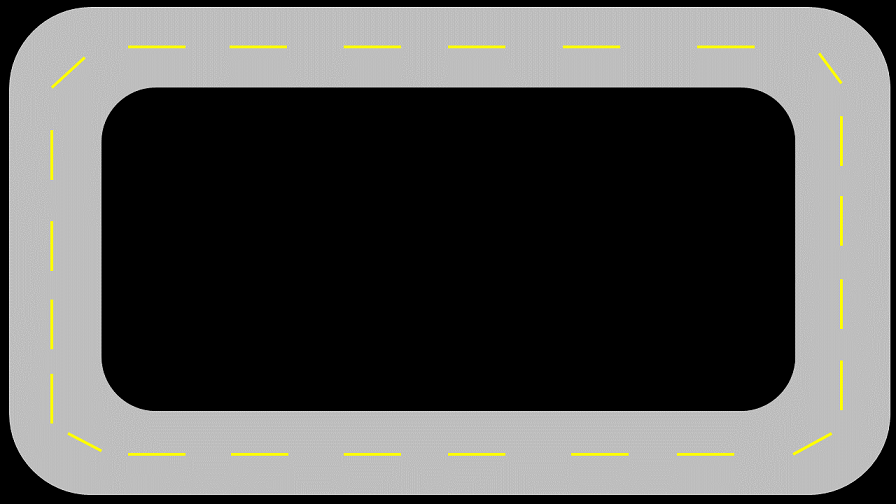
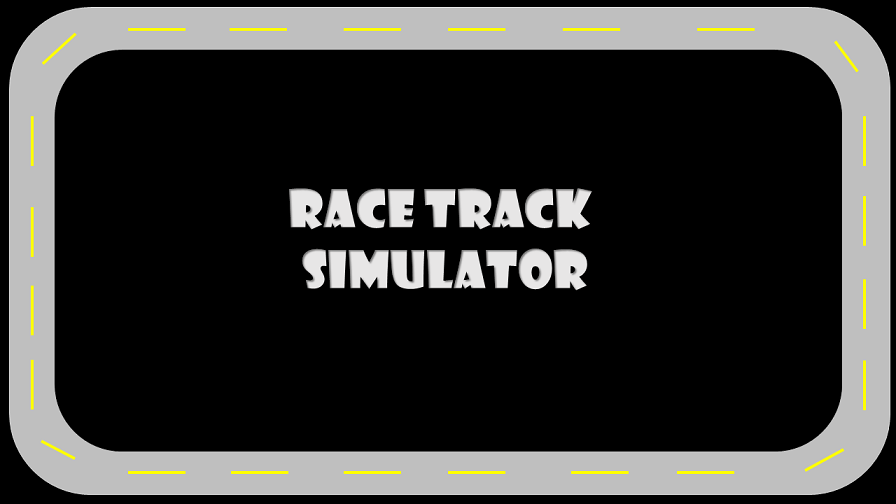
nova pista, controlador pd pronto

diff --git a/game_pid.py b/game_pid.py
@@ -35,6 +35,49 @@ def crash():
     time.sleep(2)
     pygame.quit()
 
+
+class PID:
+    """PID controller."""
+
+    def __init__(self, Kp, Ki, Kd, origin_time=None):
+        if origin_time is None:
+            origin_time = time.time()
+
+        # Gains for each term
+        self.Kp = Kp
+        self.Ki = Ki
+        self.Kd = Kd
+
+        # Corrections (outputs)
+        self.Cp = 0.0
+        self.Ci = 0.0
+        self.Cd = 0.0
+
+        self.previous_time = origin_time
+        self.previous_error = 0.0
+
+    def Update(self, error, current_time=None):
+        if current_time is None:
+            current_time = time.time()
+        dt = current_time - self.previous_time
+        if dt <= 0.0:
+            return 0
+        de = error - self.previous_error
+
+        self.Cp = error
+        self.Ci += error * dt
+        self.Cd = de / dt
+
+        self.previous_time = current_time
+        self.previous_error = error
+
+        return (
+            (self.Kp * self.Cp)    # proportional term
+            + (self.Ki * self.Ci)  # integral term
+            + (self.Kd * self.Cd)  # derivative term
+        )
+
+
 class Car:
     def __init__(self, x, y, angle=0.0, length=1, max_steering=30, max_acceleration=1.0):
         self.position = Vector2(x, y)
@@ -66,7 +109,7 @@ class Car:
 class Game:
     def __init__(self):
         pygame.init()
-        pygame.display.set_caption("Car tutorial")
+        pygame.display.set_caption("Simulador Fuzzy")
         width = 1280
         height = 720
         self.screen = pygame.display.set_mode((width, height))
@@ -75,94 +118,139 @@ class Game:
         self.exit = False
 
 
+
     def run(self):
         car_image = pygame.image.load('car.png')
         car_image = pygame.transform.scale(car_image, (45, 20))
-        track_image = pygame.image.load('track_image.png')
+        track_image = pygame.image.load('race_track.png')
         track_image = pygame.transform.scale(track_image, (1280, 720))
         track_mask = pygame.mask.from_threshold(track_image,pygame.Color('black'), (1, 1, 1, 255))
-        car = Car(20, 2.3)
+        car = Car(30, 1.5)
         ppu = 32
         #data = np.array([])
         dataSensors = np.zeros(3)
         dataSteering = np.zeros(1)
         dataVel = np.zeros(1)
         steer=0
+        sensor_esquerdo = 0
+        sensor_direito = 0
+        sensor_frontal = 0
+        distancia = 0
+        controlador_lateral = PID(1, 0, 0.1)
+        target_distance = 0
+
+
 
         while not self.exit:
             dt = self.clock.get_time() / 1000
 
+
             # Event queue
             for event in pygame.event.get():
                 if event.type == pygame.QUIT:
-                    # df = pd.DataFrame(dataSensors)
-                    # df.to_csv(r'dataSensores.csv', header = None, index=False)
-                    # df2 = pd.DataFrame(dataSteering)
-                    # df2.to_csv(r'dataSteering.csv', header = None, index=False)
-                    # df3 = pd.DataFrame(dataVel)
-                    # df3.to_csv(r'dataVelocidade.csv', header = None, index=False)
                     self.exit = True
 
-            # User input
             pressed = pygame.key.get_pressed()
-
-            #b = np.zeros(4)
             if pressed[pygame.K_UP]:
-                #b[0] = 1
-                if car.velocity.x < 0:
-                    car.acceleration = car.brake_deceleration
-                else:
-                    car.acceleration += 1 * dt
-            elif pressed[pygame.K_DOWN]:
-                #b[1] = 1
-                if car.velocity.x > 0:
-                    car.acceleration = -car.brake_deceleration
-                else:
-                    car.acceleration -= 1 * dt
-            elif pressed[pygame.K_SPACE]:
-                if abs(car.velocity.x) > dt * car.brake_deceleration:
-                    car.acceleration = -copysign(car.brake_deceleration, car.velocity.x)
-                else:
-                    car.acceleration = -car.velocity.x / dt
-            else:
-                if abs(car.velocity.x) > dt * car.free_deceleration:
-                    car.acceleration = -copysign(car.free_deceleration, car.velocity.x)
-                else:
-                    if dt != 0:
-                        car.acceleration = -car.velocity.x / dt
-            car.acceleration = max(-car.max_acceleration, min(car.acceleration, car.max_acceleration))
-            if pressed[pygame.K_RIGHT]:
-                #b[2] = 1
-                car.steering -= 30 * dt
-                steer = car.steering
-            elif pressed[pygame.K_LEFT]:
-                #b[3] = 1
-                car.steering += 30 * dt
-                steer = car.steering
-            else:
-                car.steering = 0
+                pygame_position = np.round(car.position * ppu)
+                #sensores
+                for i in range(1500):
+                    x =  np.int(pygame_position[0] + math.cos(math.radians(car.angle)) * i)
+                    y =  np.int(pygame_position[1] - math.sin(math.radians(car.angle)) * i)
+                    if (track_mask.get_at([x,y])==1):
+                        pygame.draw.lines(self.screen,(255,0,0),True,[pygame_position, [x,y]])
+                        sensor_frontal = math.hypot(x - pygame_position[0], y - pygame_position[1])
+                        break
 
-                if steer > 0:
-                    steer -= 30 * dt
-                elif steer < 0:
-                    steer += 30 * dt
-                else:
-                    steer = 0
+                for i in range(1500):
+                     x = np.int(pygame_position[0] + math.cos(math.radians(car.angle+90)) * i)
+                     y = np.int(pygame_position[1] - math.sin(math.radians(car.angle+90)) * i)
+                     if (track_mask.get_at([x,y])==1):
+                         pygame.draw.lines(self.screen,(255,0,0),True,[pygame_position, [x,y]])
+                         sensor_esquerdo = math.hypot(x - pygame_position[0], y - pygame_position[1])
+                         break
 
+                for i in range(1500):
+                    x = np.int(pygame_position[0] + math.cos(math.radians(car.angle - 90)) * i)
+                    y = np.int(pygame_position[1] - math.sin(math.radians(car.angle - 90)) * i)
+                    if (track_mask.get_at([x,y])==1):
+                        pygame.draw.lines(self.screen,(255,0,0),True,[pygame_position, [x,y]])
+                        sensor_direito = math.hypot(x - pygame_position[0], y - pygame_position[1])
+                        break
 
-            car.steering = max(-car.max_steering, min(car.steering, car.max_steering))
-            steer = max(-car.max_steering, min(steer, car.max_steering))
+                distancia = sensor_direito - sensor_esquerdo
+                error = target_distance - distancia
 
-            # b = np.array(b)
-            # dataKeys = np.vstack((dataKeys, b))
+                correction = controlador_lateral.Update(error)
+                print(correction)
+                print(distancia)
+                car.steering = correction
 
-            print(car.steering)
+                car.velocity.x = 3
+                car.acceleration = -car.velocity.x / dt
+                car.acceleration = max(-car.max_acceleration, min(car.acceleration, car.max_acceleration))
+                car.steering = max(-car.max_steering, min(car.steering, car.max_steering))
+                #
+                # # User input
+                # pressed = pygame.key.get_pressed()
+                #
+                # #b = np.zeros(4)
+                # if pressed[pygame.K_UP]:
+                #     #b[0] = 1
+                #     if car.velocity.x < 0:
+                #         car.acceleration = car.brake_deceleration
+                #     else:
+                #         car.acceleration += 1 * dt
+                # elif pressed[pygame.K_DOWN]:
+                #     #b[1] = 1
+                #     if car.velocity.x > 0:
+                #         car.acceleration = -car.brake_deceleration
+                #     else:
+                #         car.acceleration -= 1 * dt
+                # elif pressed[pygame.K_SPACE]:
+                #     if abs(car.velocity.x) > dt * car.brake_deceleration:
+                #         car.acceleration = -copysign(car.brake_deceleration, car.velocity.x)
+                #     else:
+                #         car.acceleration = -car.velocity.x / dt
+                # else:
+                #     if abs(car.velocity.x) > dt * car.free_deceleration:
+                #         car.acceleration = -copysign(car.free_deceleration, car.velocity.x)
+                #     else:
+                #         if dt != 0:
+                #             car.acceleration = -car.velocity.x / dt
+                # car.acceleration = max(-car.max_acceleration, min(car.acceleration, car.max_acceleration))
+                # if pressed[pygame.K_RIGHT]:
+                #     #b[2] = 1
+                #     car.steering -= 30 * dt
+                #     steer = car.steering
+                # elif pressed[pygame.K_LEFT]:
+                #     #b[3] = 1
+                #     car.steering += 30 * dt
+                #     steer = car.steering
+                # else:
+                #     car.steering = 0
+                #
+                #     if steer > 0:
+                #         steer -= 30 * dt
+                #     elif steer < 0:
+                #         steer += 30 * dt
+                #     else:
+                #         steer = 0
+                #
+                #
+                # car.steering = max(-car.max_steering, min(car.steering, car.max_steering))
+                # steer = max(-car.max_steering, min(steer, car.max_steering))
+                #
+                # # b = np.array(b)
+                # # dataKeys = np.vstack((dataKeys, b))
+                #
+                # print(car.velocity)
+                #
+                # b = np.array(car.steering)
+                # dataSteering = np.vstack((dataSteering, b))
 
-            b = np.array(car.steering)
-            dataSteering = np.vstack((dataSteering, b))
-
-            # Logic
-            car.update(dt)
+                # Logic
+                car.update(dt)
 
             # Drawing
             self.screen.blit(track_image, [0, 0])
@@ -185,35 +273,6 @@ class Game:
                 # df3.to_csv(r'dataVelocidade.csv', header=None, index=False)
                 crash()
 
-            a = []
-            #sensores
-            for i in range(1500):
-                x =  np.int(pygame_position[0] + math.cos(math.radians(car.angle)) * i)
-                y =  np.int(pygame_position[1] - math.sin(math.radians(car.angle)) * i)
-                if (track_mask.get_at([x,y])==1):
-                    pygame.draw.lines(self.screen,(255,0,0),True,[pygame_position, [x,y]])
-                    #print('Sensor Reto: ', math.hypot(x - pygame_position[0], y - pygame_position[1]))
-                    a.append(math.hypot(x - pygame_position[0], y - pygame_position[1]))
-                    break
-
-            for i in range(1500):
-                 x = np.int(pygame_position[0] + math.cos(math.radians(car.angle+90)) * i)
-                 y = np.int(pygame_position[1] - math.sin(math.radians(car.angle+90)) * i)
-                 if (track_mask.get_at([x,y])==1):
-                     pygame.draw.lines(self.screen,(255,0,0),True,[pygame_position, [x,y]])
-                     #print('Sensor Esquerda: ', math.hypot(x - pygame_position[0], y - pygame_position[1]))
-                     a.append(math.hypot(x - pygame_position[0], y - pygame_position[1]))
-                     break
-
-            for i in range(1500):
-                x = np.int(pygame_position[0] + math.cos(math.radians(car.angle - 90)) * i)
-                y = np.int(pygame_position[1] - math.sin(math.radians(car.angle - 90)) * i)
-                if (track_mask.get_at([x,y])==1):
-                    pygame.draw.lines(self.screen,(255,0,0),True,[pygame_position, [x,y]])
-                    #print('Sensor Direita: ', math.hypot(x - pygame_position[0], y - pygame_position[1]))
-                    a.append(math.hypot(x - pygame_position[0], y - pygame_position[1]))
-                    break
-
             # for i in range(1500):
             #     x =  np.int(pygame_position[0] + math.cos(math.radians(car.angle + 45)) * i)
             #     y =  np.int(pygame_position[1] - math.sin(math.radians(car.angle + 45)) * i)
@@ -232,8 +291,7 @@ class Game:
             #         a.append(math.hypot(x - pygame_position[0], y - pygame_position[1]))
             #         break
 
-            a = np.array(a)
-            dataSensors = np.vstack((dataSensors, a))
+
 
             c = np.array(car.velocity[0])
             dataVel = np.vstack((dataVel, c))
